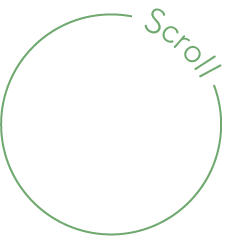
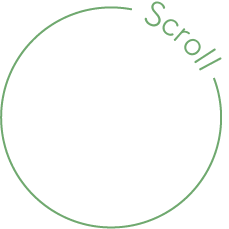
portfolio4

diff --git a/portfolio/index.html b/portfolio/index.html
@@ -7,10 +7,14 @@
     <meta name="viewport" content="width=device-width, initial-scale=1.0">
     <title>Canna design｜気持ちや想い、届けます。愛を込めて。Web制作承ります。</title>
     <meta name="description" content="気持ちや想い、届けます。愛を込めて。Web制作承ります。">
+    <link rel="stylesheet" type="text/css" href="https://cdn.jsdelivr.net/npm/slick-carousel@1.8.1/slick/slick.css" />
+    <link rel="stylesheet" type="text/css"
+        href="https://cdn.jsdelivr.net/npm/slick-carousel@1.8.1/slick/slick-theme.css">
     <link rel="stylesheet" href="css/common.css">
     <link rel="stylesheet" href="css/style.css">
     <script src="js/script.js"></script>
     <script src="https://ajax.googleapis.com/ajax/libs/jquery/3.6.4/jquery.min.js"></script>
+    <script src="https://cdn.jsdelivr.net/npm/slick-carousel@1.8.1/slick/slick.min.js"></script>
 </head>
 
 <body>
@@ -31,7 +35,7 @@
                 <li><a href="#contact">Contact</a></li>
             </ul>
         </nav>
-        <div class="sp_btn"><span></span></div>
+        <div class="sp_btn open"><span></span></div>
         <nav class="sp_nav">
             <ul>
                 <li><a href="#header">Home</a></li>
@@ -42,13 +46,13 @@
             </ul>
         </nav>
         <p class="copy">気持ちや想い、届けます。<br>愛を込めて。</p>
-        <div class="scroll">
+        <a class="scroll" href="#about">
             <div class="arrow"><img src="img/scroll_arrow@2x.png" alt="矢印"></div>
             <div class="circle"><img src="img/scroll@2x.png" alt="scroll"></div>
-        </div>
+        </a>
     </header>
 
-    <section class="about">
+    <section class="about" id="about">
         <h2 class="about_title"><img src="img/about_title@2x.png" alt="About"></h2>
         <div class="about_content">
             <div class="about_img1"><img src="img/about@2x.png" alt="後ろ姿"></div>
@@ -84,6 +88,13 @@
     </section>
 
     <section class="works">
+        <div class="works_back">
+            <picture>
+                <source srcset="/Users/miyauchikanna/Desktop/dezasuta/portfolio/img/works_back_sp@2x.png"
+                    media="(max-width: 767px)">
+                <img src="img/works_back@2x.png" alt="背景">
+            </picture>
+        </div>
         <h2 class="works_title"><img src="img/works_title@2x.png" alt="Works"></h2>
         <div class="works_slide">
             <div class="slide">
@@ -192,7 +203,7 @@
                 </dl>
             </div>
         </div>
-        <a class="btn_2" href="works/index.html">View All</a>
+        <div class="works_btn"><a class="btn_2" href="works/index.html">View All</a></div>
     </section>
 
     <section class="contact" id="contact">
@@ -203,11 +214,11 @@
                 action="https://docs.google.com/forms/u/0/d/e/1FAIpQLSfnAGrkHeTVh5Lx-PGB7j1Pc9iiCatIGYR4HuC4QdxZ6hSuTA/formResponse"
                 method="post" target="hidden_iframe" onsubmit="submitted=true;">
                 <label>お名前</label>
-                <input id="name" type="text" name="entry.1401415548">
+                <input id="name" type="text" name="entry.1401415548" required>
                 <label>メールアドレス</label>
-                <input id="mail" type="email" name="entry.217772467">
+                <input id="mail" type="email" name="entry.217772467" required>
                 <label>お問い合わせ内容</label>
-                <textarea id="contents" name="entry.1352181913"></textarea>
+                <textarea id="contents" name="entry.1352181913" required></textarea>
                 <button type="submit" name="button" value="送信">送信する</button>
             </form>
             <script type="text/javascript">
@@ -244,11 +255,11 @@
                 $('.sp_btn').toggleClass('open');
             });
 
-            $('.slide').slick({
+            $('.works_slide').slick({
                 autoplay: true,
-                autoplaySpeed: 2000,
+                autoplaySpeed: 5000,
                 infinite: true,
-                slidesToShow: 7,
+                slidesToShow: 1,
                 slidesToScroll: 1,
                 responsive: [
                     {
@@ -257,7 +268,6 @@
                             slidesToShow: 1,
                             slidesToScroll: 1,
                             infinite: true,
-                            dots: true
                         }
                     }
                 ]

diff --git a/portfolio/css/style.css b/portfolio/css/style.css
@@ -14,6 +14,7 @@
     text-indent: -8em;
     line-height: 1.75;
     font-size: 40px;
+    font-feature-settings: normal;
 }
 
 /* scroll */
@@ -51,12 +52,27 @@
 
 @media screen and (max-width: 767px) {
     .copy {
-        left: 140px;
+        left: 45px;
         top: 475px;
     }
 
     .scroll {
-        top: 900px;
+        top: 630px;
+        right: 8px;
+    }
+
+    .circle {
+        width: 74px;
+        margin: 0 auto;
+    }
+
+    .arrow {
+        left: 48px;
+        top: 18px;
+    }
+
+    .arrow img {
+        height: 37px;
     }
 }
 
@@ -241,6 +257,12 @@
     margin-top: 450px;
 }
 
+.works_back {
+    position: absolute;
+    width: 100%;
+    top: 2650px;
+}
+
 .works_title {
     width: 204px;
     margin: 0 auto 75px;
@@ -249,6 +271,8 @@
 .works_slide {
     margin-bottom: 50px;
     width: 640px;
+    margin: 0 auto;
+    padding-bottom: 75px;
 }
 
 .txt {
@@ -322,7 +346,65 @@
     right: -27px;
 }
 
+.works_btn {
+    text-align: center;
+}
+
+.slick-prev {
+    content: "";
+    width: 27px;
+    height: 27px;
+    border-top: solid 5px #6fb300;
+    border-right: solid 5px #6fb300;
+    position: absolute;
+    top: 30%;
+    left: -6%;
+}
+.slick-next {
+    content: "";
+    width: 27px;
+    height: 27px;
+    border-top: solid 5px #6fb300;
+    border-right: solid 5px #6fb300;
+    position: absolute;
+    top: 30%;
+    right: -10%;
+}
+
+.slick-prev.slick-arrow {
+    transform: translate(-50%, -50%) rotate(-135deg);
+}
+.slick-next.slick-arrow {
+    transform: translate(-50%, -50%) rotate(45deg);
+}
+
+.slick-prev:before,
+.slick-next:before {
+    display: none;
+}
+
 @media screen and (max-width: 767px) {
+    .works_slide {
+        width: 315px;
+    }
+
+    .works_back {
+        top: 3900px;
+    }
+
+    .works_back img {
+        height: 993px;
+        width: 100%;
+    }
+
+    .slick-prev {
+        top: 21%;
+        left: -7%;
+    }
+    .slick-next {
+        top: 21%;
+        right: -14%;
+    }
 }
 
 /* contact */
@@ -351,14 +433,13 @@ textarea {
     display: block;
     width: 540px;
     border: none;
-    background-color: #6fac00;
-    opacity: 0.15;
+    background-color: rgba(111, 172, 0, 0.15);
     margin-top: 3px;
-    outline: 2px solid #6fac00;
+    color: #4d4d4d;
+    padding: 12px 12px;
 }
 
 input {
-    height: 30px;
     margin-bottom: 20px;
 }
 
@@ -370,7 +451,7 @@ textarea {
 .contact_part {
     position: absolute;
     right: 330px;
-    top: 4100px;
+    top: 4650px;
 }
 
 button {
@@ -379,6 +460,12 @@ button {
     border-radius: 99rem;
     border: 2px solid #6fb300;
     color: #fff;
+    transition: 0.3s;
+}
+
+button:hover {
+    opacity: 0.5;
+    cursor: pointer;
 }
 
 @media screen and (max-width: 767px) {
@@ -401,6 +488,8 @@ button {
 
     .contact_part {
         width: 148px;
+        top: 5780px;
+        right: 0px;
     }
 }
 
@@ -660,7 +749,7 @@ button {
     .part1 {
         width: 90px;
         top: 700px;
-        right: 220px;
+        right: 50px;
     }
 
     .part2 {

diff --git a/portfolio/about.html b/portfolio/about.html
@@ -64,7 +64,13 @@
         <p class="profile_text2">性格は、タフです。寝てる時間がもったいない！と思っています。<br>CADオペレーターとして勤務しながら接客業をしていたので、コミュニケーション力には自信があります。</p>
     </section>
 
-    <div class="profile_back"><img src="img/about_back@2x.png" alt=""></div>
+    <div class="profile_back">
+        <picture>
+            <source srcset="/Users/miyauchikanna/Desktop/dezasuta/portfolio/img/works_back_sp@2x.png"
+                media="(max-width: 767px)">
+            <img src="img/about_back@2x.png" alt="背景">
+        </picture>
+    </div>
 
     <section class="skill">
         <h2 class="skill_title"><img src="img/skill_title@2x.png" alt="Skill"></h2>

diff --git a/portfolio/css/common.css b/portfolio/css/common.css
@@ -14,7 +14,9 @@ dl,
 dt,
 dd,
 ul,
-li {
+li,
+input,
+textarea {
     margin: 0;
     padding: 0;
     line-height: 1;
@@ -88,6 +90,18 @@ body {
     }
 
     /* ハンバーガー */
+
+    .sp_nav li {
+        color: #6ac3dc;
+        font-size: 24px;
+        margin-bottom: 32px;
+    }
+
+    .sp_nav ul {
+        position: absolute;
+        top: 182px;
+        right: 120px;
+    }
 
     .sp_btn {
         display: block;
@@ -192,6 +206,7 @@ footer {
 @media screen and (max-width: 767px) {
     .top {
         width: 94px;
+        right: 18px;
     }
 }
 

diff --git a/portfolio/works/css/style.css b/portfolio/works/css/style.css
@@ -57,12 +57,14 @@
 
     .part1 {
         top: 700px;
-        left: 350px;
+        left: auto;
+        right: 0;
     }
 
     .part2 {
         top: 1435px;
-        left: 415px;
+        left: auto;
+        right: 0;
     }
 
     .part3 {
